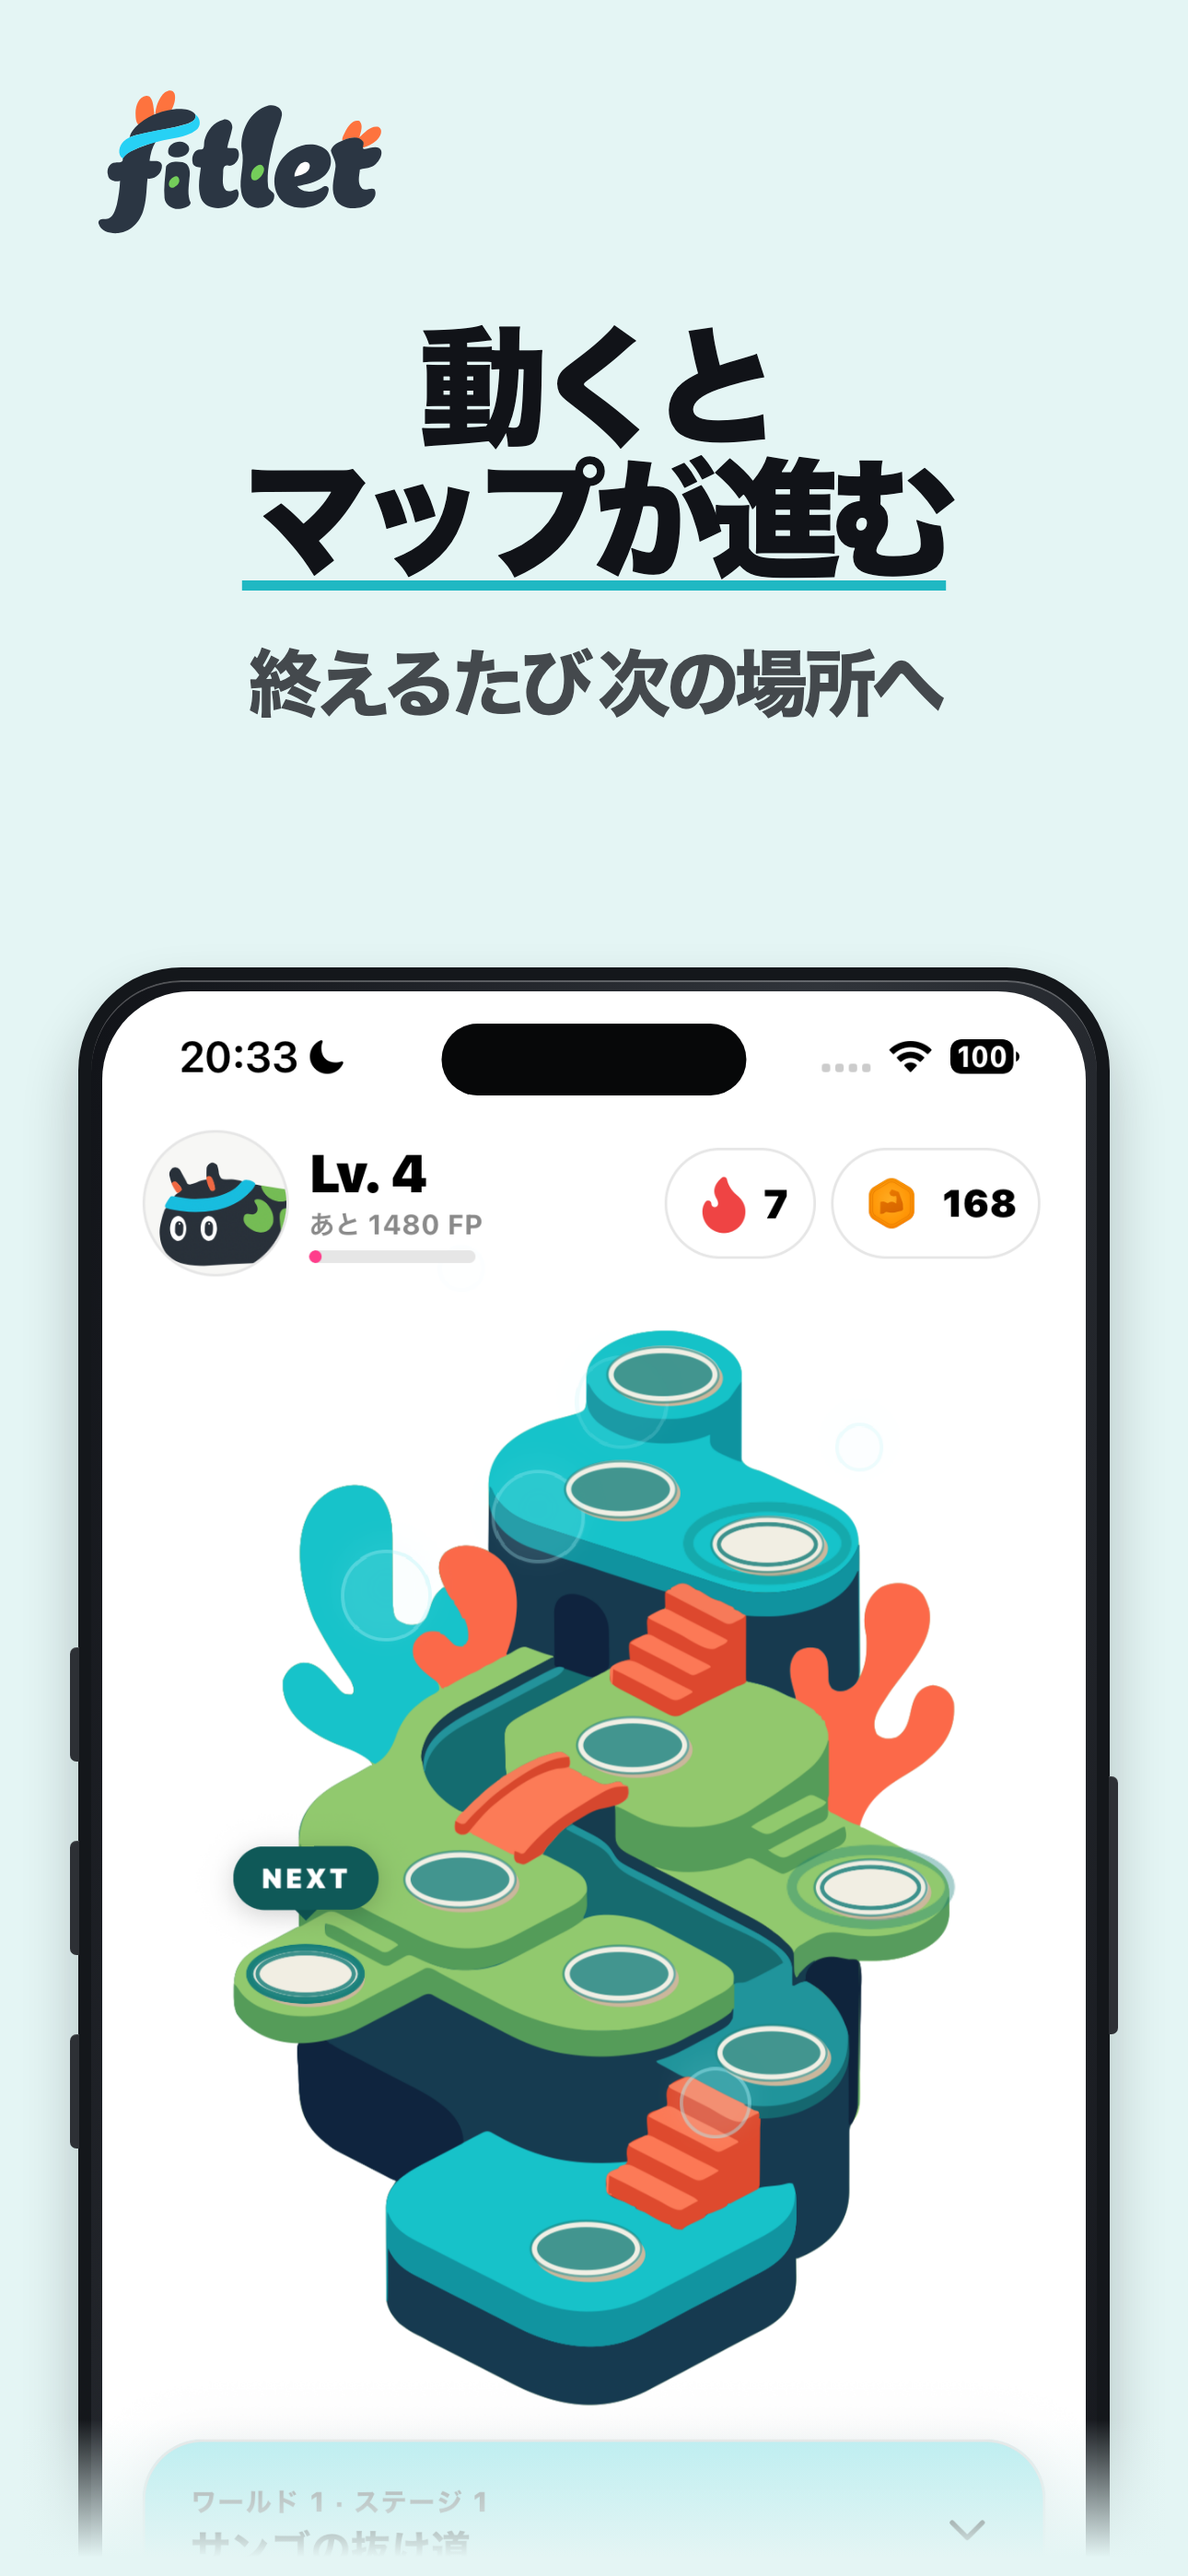
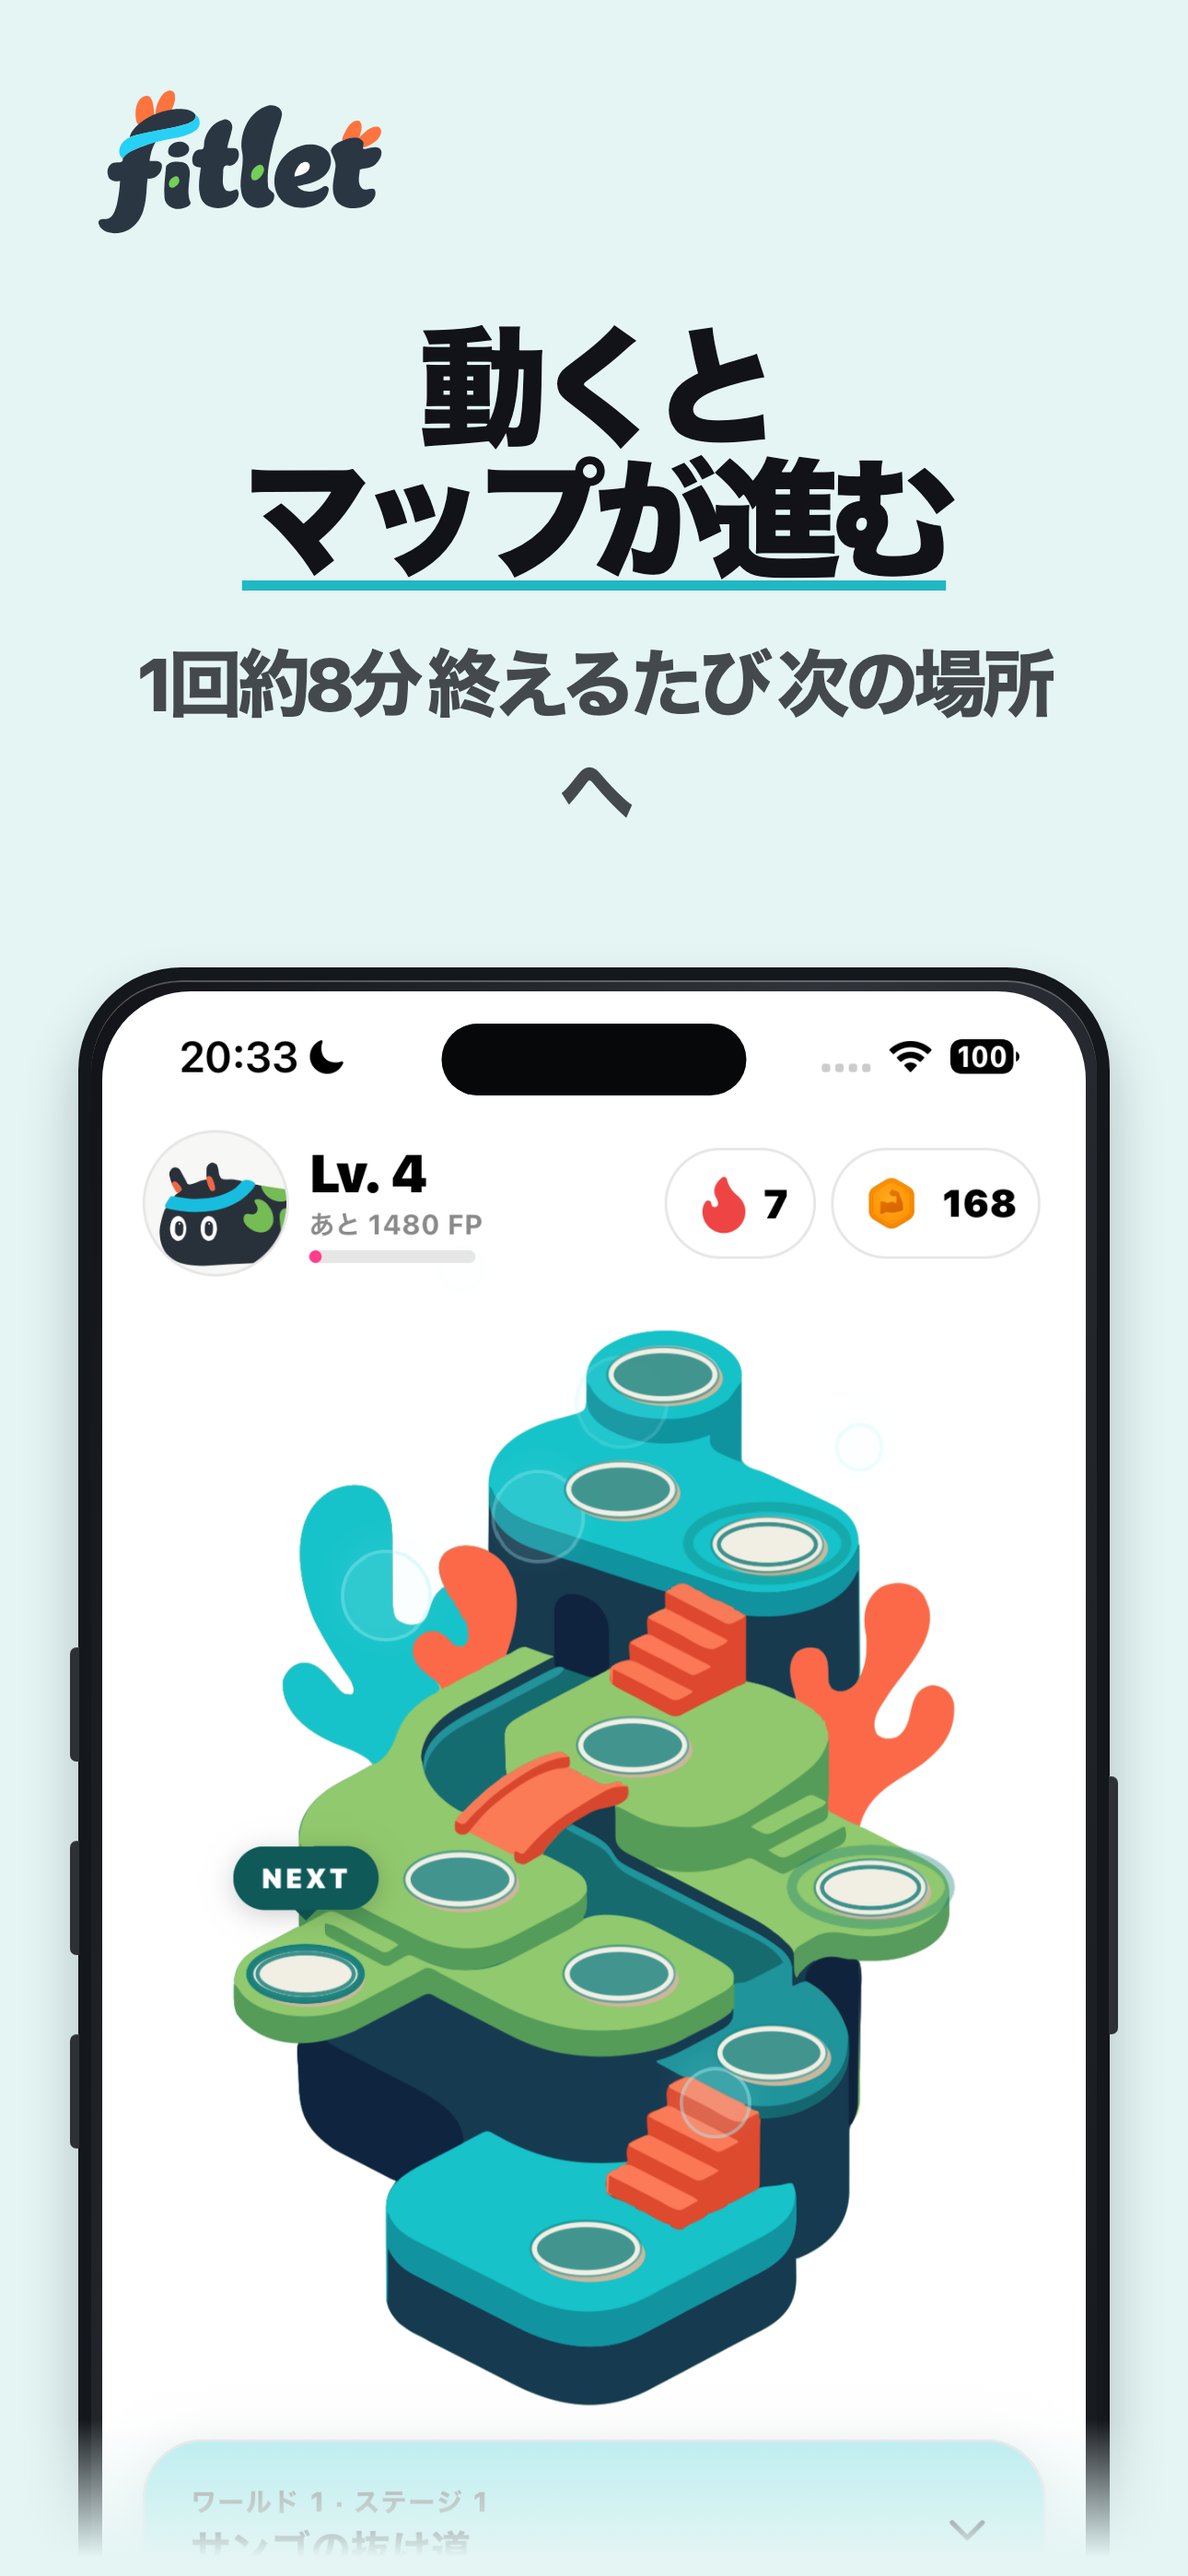
Reorder store screenshot messaging

Changed region(s): [[0.124, 0.2489, 0.8992, 0.3112]]

diff --git a/app/store-screenshot/page.tsx b/app/store-screenshot/page.tsx
@@ -9,13 +9,13 @@ const scenes = {
   home: {
     label: "ホーム",
     title: <><span className="store-shot-title-line">動くと</span><span className="store-shot-title-line store-shot-title-emphasis">マップが進む</span></>,
-    detail: "終えるたび 次の場所へ",
+    detail: "1回約8分 終えるたび 次の場所へ",
     src: "/app-screens/ja/real-home.png",
   },
   session: {
     label: "トレーニング中",
     title: <><span className="store-shot-title-line">カメラが</span><span className="store-shot-title-line store-shot-title-emphasis">回数を数える</span></>,
-    detail: "動きを捉えて 自動で数える",
+    detail: "スマホを置くだけで 自動カウント",
     src: "/app-screens/ja/real-session.png",
   },
   training: {
@@ -26,9 +26,15 @@ const scenes = {
   },
   league: {
     label: "リーグ",
-    title: <><span className="store-shot-title-line">動いた分だけ</span><span className="store-shot-title-line store-shot-title-emphasis">順位が変わる</span></>,
-    detail: "毎週のFPで 仲間と競う",
+    title: <><span className="store-shot-title-line">今週は何位まで</span><span className="store-shot-title-line store-shot-title-emphasis">いける？</span></>,
+    detail: "毎週の運動量で 仲間と競う",
     src: "/app-screens/ja/real-league.png",
+  },
+  profile: {
+    label: "プロフィール",
+    title: <><span className="store-shot-title-line">続けるほど</span><span className="store-shot-title-line store-shot-title-emphasis">成長が見えてくる</span></>,
+    detail: "レベルも連続記録も積み上がる",
+    src: "/app-screens/ja/real-profile.png",
   },
   coach: {
     label: "Pro・コーチ",
@@ -36,12 +42,6 @@ const scenes = {
     detail: "Proなら 次の運動を提案",
     src: "/app-screens/ja/real-coach.png",
     pro: true,
-  },
-  profile: {
-    label: "プロフィール",
-    title: <><span className="store-shot-title-line store-shot-title-emphasis">続けた記録が</span><span className="store-shot-title-line">残っていく</span></>,
-    detail: "続けた日数やレベルを記録",
-    src: "/app-screens/ja/real-profile.png",
   },
 } as const;
 
